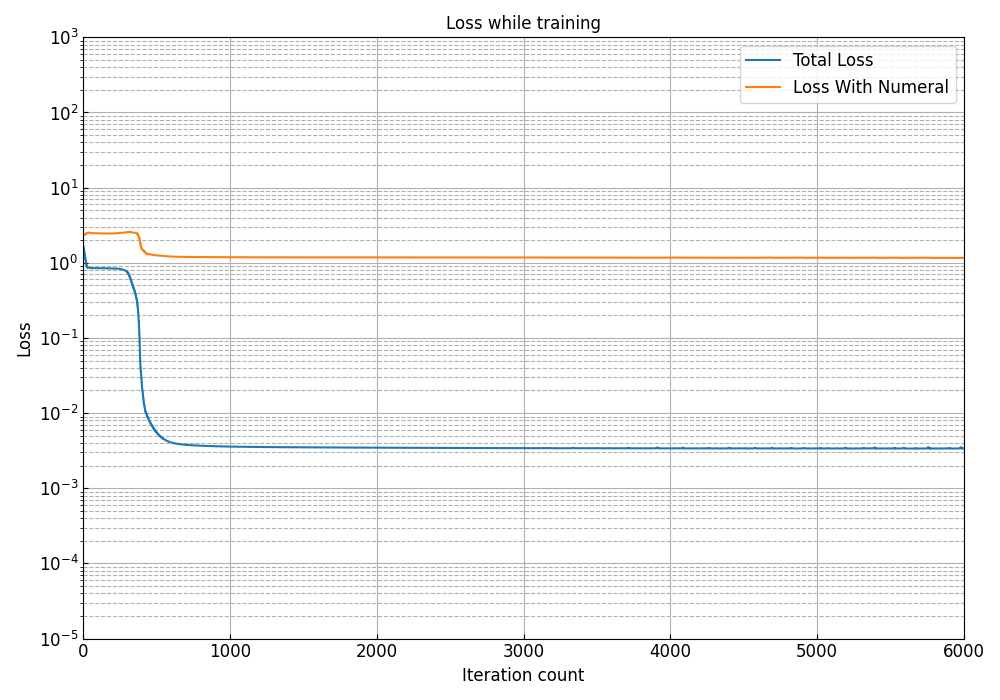
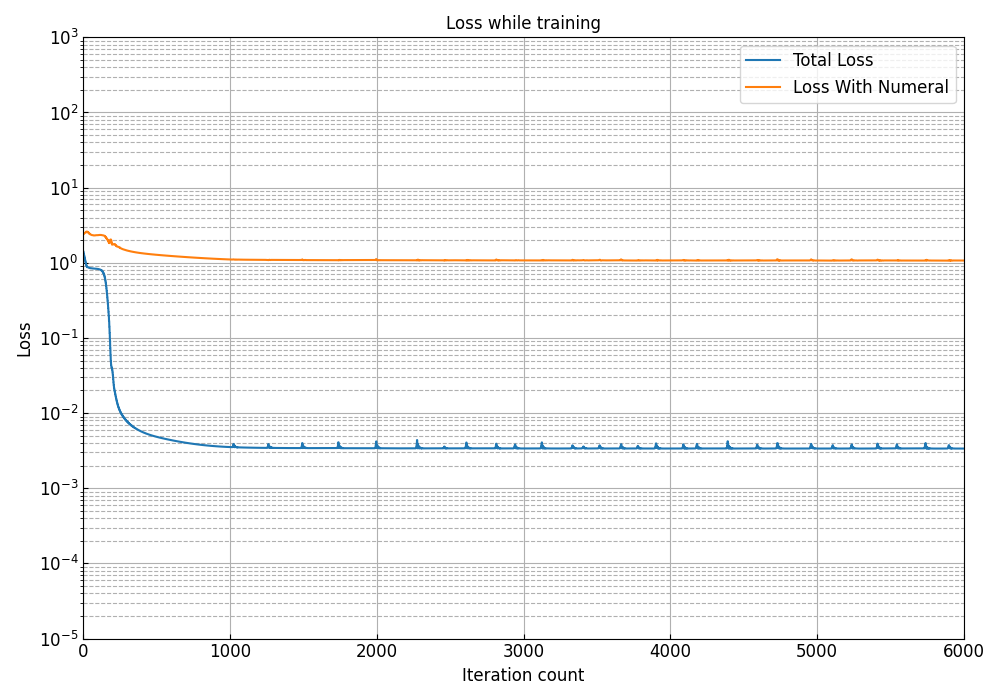
update_loss

Changed region(s): [[0.093, 0.33, 0.961, 0.42], [0.124, 0.57, 0.682, 0.66], [0.868, 0.63, 0.899, 0.66]]

diff --git a/src/Neural_network(PINN).py b/src/Neural_network(PINN).py
@@ -20,7 +20,13 @@ from tqdm import tqdm
 # a = Runge_Kut()
 # b = a.method()
 
-a = Approx()
+gamma = 1.3
+delta = 3
+alpha = 0.001
+beta = 0.0001
+omega = torch.pi*1.25
+
+a = Approx((gamma, delta, alpha, beta, omega))
 b = a.solve()
 
 num_data = torch.from_numpy(b.y[0, 1:]).unsqueeze(1)
@@ -29,7 +35,7 @@ matplotlib.rcParams['figure.figsize'] = (10.0, 7.0)
 
 epohs = 6000
 dots = 500
-gamma = 1.3
+
 loss_all = np.zeros(epohs)
 loss_all_num = np.zeros(epohs)
 lambd = 1
@@ -136,10 +142,6 @@ def pdeloss(t, epoh):
     return loss
 
 def pde(out, t):
-        delta = 0.021
-        alpha = 0.001
-        beta = 0.00001
-        omega = torch.pi*1.25
         dxdt = torch.autograd.grad(out, t, torch.ones_like(t), create_graph=True, retain_graph=True)[0]
         d2xdt2 = torch.autograd.grad(dxdt, t, torch.ones_like(t), create_graph=True, retain_graph=True)[0]
         

diff --git a/src/numerical_methods/Runge_kut_scipy.py b/src/numerical_methods/Runge_kut_scipy.py
@@ -5,9 +5,9 @@ import matplotlib.pyplot as plt
 import numpy as np
 
 gamma = 1.3
-delta = 0.021
-alpha = 0.0001
-beta = 0.00001
+delta = 3
+alpha = 0.001
+beta = 0.0001
 l = 1.25
 omega = np.pi*l
 
@@ -51,7 +51,7 @@ if __name__ == "__main__": # pragma: no cover
     plt.plot(t, sol.y[0, :], 'r')
     plt.xlabel('t')
     plt.ylabel('x(t)')
-    dl = (max(sol.y[0]) - min(sol.y[1]))*0.012 # <- change the last parameter to align the labels
+    dl = (max(sol.y[0]) - min(sol.y[1]))*0.052 # <- change the last parameter to align the labels
     plt.text(t[-1]/2-2.8, max(sol.y[0, :])+1.3*dl, f"omega={'' if l==1 else l}pi")
     plt.text(t[-1]/2, max(sol.y[0])+1.6*dl, f"gamma={gamma}")
     plt.text(t[-1]/2, max(sol.y[0])+dl, f"delta={delta}")
